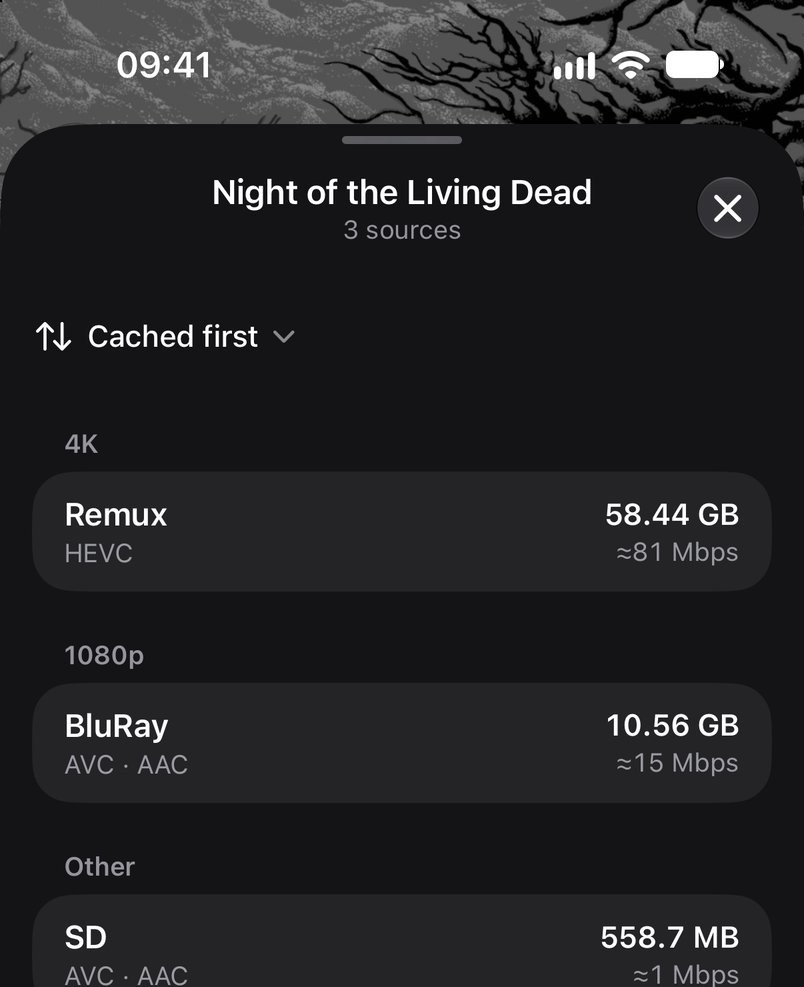
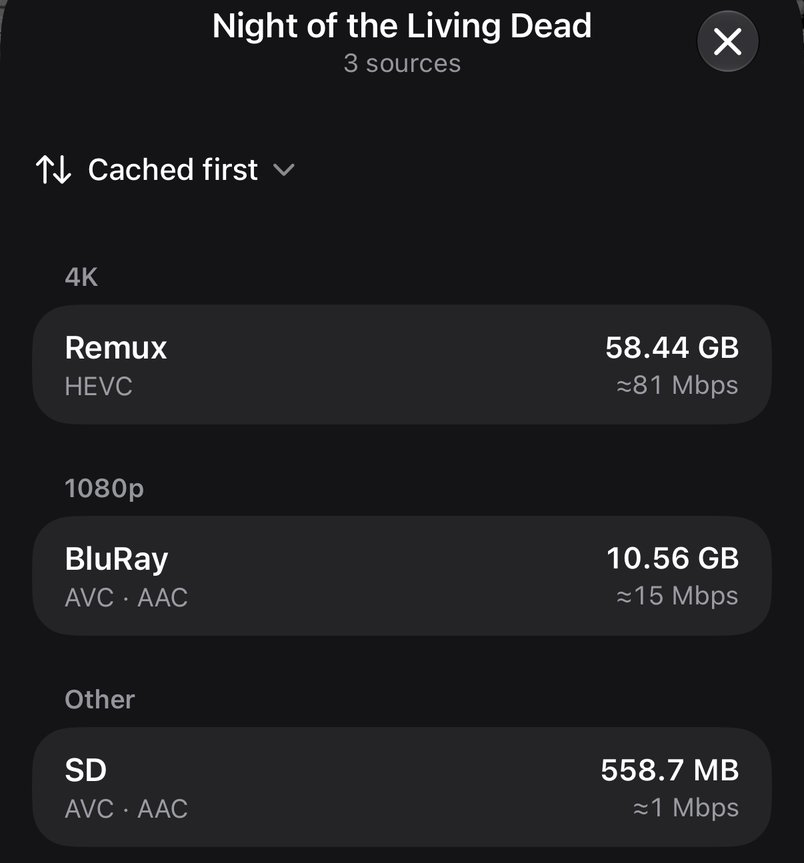
Add an Impressum, privacy policy and copyright notice to the project page
loge.tjh.li gets a German legal page (Impressum under § 5 DDG and
§ 18 MStV, copyright and trademarks, responsibility for addons, and a
privacy policy covering Cloudflare hosting and what the app contacts),
linked from the footer with a copyright line. Screenshots now show only
the public-domain Night of the Living Dead: the Apple TV Home capture with
studio artwork is replaced by the Apple TV player, and the sources sheet
is cropped below the title artwork.

diff --git a/web/impressum.html b/web/impressum.html
@@ -1,0 +1,118 @@
+<!doctype html>
+<html lang="de">
+  <head>
+    <meta charset="utf-8">
+    <meta name="viewport" content="width=device-width, initial-scale=1">
+    <title>Impressum und Datenschutz · loge</title>
+    <meta name="description" content="Impressum, Urheberrecht und Datenschutzerklärung für loge.tjh.li und die App loge.">
+    <link rel="canonical" href="https://loge.tjh.li/impressum">
+    <link rel="icon" href="/icon.png" type="image/png">
+    <link rel="preload" href="/fonts/mona-sans.woff2" as="font" type="font/woff2" crossorigin>
+    <link rel="stylesheet" href="/style.css">
+    <meta name="theme-color" content="#f2f4f9" media="(prefers-color-scheme: light)">
+    <meta name="theme-color" content="#0a0d13" media="(prefers-color-scheme: dark)">
+  </head>
+
+  <body>
+    <a class="skip" href="#main">Zum Inhalt</a>
+
+    <main id="main" class="page legal">
+      <header class="legal-head">
+        <a class="label link" href="/">← loge</a>
+        <h1>Impressum und Datenschutz</h1>
+        <p class="label">Legal notice and privacy policy · Stand: 10. November 2026</p>
+      </header>
+
+      <section id="impressum" class="pane" aria-labelledby="impressum-heading">
+        <h2 id="impressum-heading">Impressum</h2>
+        <p class="label">Angaben gemäß § 5 DDG und § 18 Abs. 1 MStV</p>
+        <address>
+          Tim Jonas Holzwarth<br>
+          ADDRESS-MISSING<br>
+          Deutschland
+        </address>
+        <dl class="specs">
+          <div><dt>E-Mail</dt><dd><a class="link" href="mailto:hi@tjh.li">hi@tjh.li</a></dd></div>
+        </dl>
+        <p>loge ist ein privates, nicht kommerzielles Open-Source-Projekt. Es gibt keine
+          Werbung, keine Bezahlung und kein Konto.</p>
+      </section>
+
+      <section id="urheberrecht" class="pane" aria-labelledby="copyright-heading">
+        <h2 id="copyright-heading">Urheberrecht und Marken</h2>
+        <dl class="specs">
+          <div><dt>Diese Seite</dt><dd>© 2026 Tim Jonas Holzwarth. Texte, Gestaltung und Screenshots
+            der App dürfen nicht ohne Zustimmung weiterverwendet werden.</dd></div>
+          <div><dt>Die App</dt><dd>© 2026 Tim Jonas Holzwarth. Der Quellcode ist freie Software unter der
+            <a class="link" href="https://github.com/timhlzwrt/loge/blob/main/LICENSE">GNU General Public License v3.0</a>.</dd></div>
+          <div><dt>Bestandteile</dt><dd><a class="link" href="https://mpv.io">mpv</a> und
+            <a class="link" href="https://ffmpeg.org">FFmpeg</a> über
+            <a class="link" href="https://github.com/mpvkit/MPVKit">MPVKit</a> (LGPL). Schriften Mona Sans
+            und IBM Plex Mono (SIL Open Font License 1.1).</dd></div>
+          <div><dt>Screenshots</dt><dd>Der gezeigte Film <em>Night of the Living Dead</em> (1968) ist
+            gemeinfrei; die Dateien stammen aus dem Internet Archive.</dd></div>
+          <div><dt>Marken</dt><dd>Apple, iPhone, iPad, Apple TV und Mac sind Marken der Apple Inc.
+            Stremio, Trakt und TMDB sind Marken ihrer jeweiligen Inhaber. loge ist ein unabhängiges
+            Projekt und weder mit ihnen verbunden noch von ihnen unterstützt. Diese App verwendet die
+            TMDB-API, ist aber nicht von TMDB empfohlen oder zertifiziert.</dd></div>
+        </dl>
+      </section>
+
+      <section id="inhalte" class="pane" aria-labelledby="content-heading">
+        <h2 id="content-heading">Inhalte und Addons</h2>
+        <p>loge stellt keine Filme oder Serien bereit, speichert keine und empfiehlt keine
+          Addons. Die App zeigt nur, was Addons liefern, die jede Person selbst hinzufügt. Wer
+          ein Addon nutzt, ist selbst dafür verantwortlich, dass das rechtmäßig ist.</p>
+        <p>Für Inhalte externer Seiten, auf die diese Seite verlinkt, sind deren Betreiber
+          verantwortlich. Werden mir Rechtsverstöße bekannt, entferne ich betroffene Links
+          umgehend.</p>
+      </section>
+
+      <section id="datenschutz" class="pane" aria-labelledby="privacy-heading">
+        <h2 id="privacy-heading">Datenschutzerklärung</h2>
+
+        <h3>Verantwortlicher</h3>
+        <p>Tim Jonas Holzwarth, Anschrift wie im Impressum,
+          <a class="link" href="mailto:hi@tjh.li">hi@tjh.li</a>.</p>
+
+        <h3>Diese Website</h3>
+        <dl class="specs">
+          <div><dt>Cookies</dt><dd>Keine</dd></div>
+          <div><dt>Analyse</dt><dd>Keine</dd></div>
+          <div><dt>Schriften, Bilder</dt><dd>Vom selben Server, keine Anfragen an Dritte</dd></div>
+        </dl>
+        <p>Die Seite wird über Cloudflare Pages ausgeliefert (Cloudflare, Inc., 101 Townsend St,
+          San Francisco, CA 94107, USA). Bei jedem Aufruf verarbeitet Cloudflare technisch nötige
+          Daten: IP-Adresse, Zeitpunkt, aufgerufene Adresse und Browserangaben. Das dient der
+          Auslieferung und dem Schutz der Seite vor Angriffen; Rechtsgrundlage ist
+          Art. 6 Abs. 1 lit. f DSGVO. Cloudflare ist unter dem EU-US Data Privacy Framework
+          zertifiziert (Art. 45 DSGVO). Ich werte keine Zugriffsdaten aus und speichere keine
+          Server-Logs.</p>
+        <p>Downloads und Quellcode liegen auf GitHub (GitHub, Inc., USA). Wer einen Link dorthin
+          öffnet, ruft GitHub direkt auf; dann gilt die
+          <a class="link" href="https://docs.github.com/de/site-policy/privacy-policies/github-general-privacy-statement">Datenschutzerklärung von GitHub</a>.</p>
+
+        <h3>Die App</h3>
+        <p>Die App sendet keine Daten an mich und hat keinen eigenen Server. Sie verbindet sich
+          direkt vom Gerät aus mit den Diensten, die sie für ihre Funktionen braucht oder die du
+          selbst einrichtest; dabei sehen diese Dienste deine IP-Adresse und die Anfrage:</p>
+        <dl class="specs">
+          <div><dt>Immer</dt><dd>Cinemeta (Kataloge, Titelinformationen), Wikidata und Wikimedia
+            (Festivals, Bilder), TheIntroDB (Zeiten zum Überspringen von Vorspann und Abspann)</dd></div>
+          <div><dt>Auf dem Mac</dt><dd>tjh.li auf GitHub Pages, um nach Updates zu suchen</dd></div>
+          <div><dt>Wenn du sie einrichtest</dt><dd>Deine Addons, TMDB, Trakt und ein eigener
+            Sync-Server</dd></div>
+        </dl>
+        <p>Verlauf, Listen und Einstellungen bleiben auf deinem Gerät, solange du keine
+          Synchronisierung einrichtest.</p>
+
+        <h3>Deine Rechte</h3>
+        <p>Du hast das Recht auf Auskunft, Berichtigung, Löschung und Einschränkung der
+          Verarbeitung, auf Datenübertragbarkeit und auf Widerspruch (Art. 15–21 DSGVO). Schreib
+          dafür an <a class="link" href="mailto:hi@tjh.li">hi@tjh.li</a>. Außerdem kannst du dich
+          bei einer Datenschutz-Aufsichtsbehörde beschweren, etwa beim
+          <a class="link" href="https://www.baden-wuerttemberg.datenschutz.de">Landesbeauftragten für den Datenschutz Baden-Württemberg</a>.</p>
+      </section>
+    </main>
+  </body>
+</html>

diff --git a/web/index.html b/web/index.html
@@ -14,7 +14,7 @@
     <meta property="og:title" content="loge">
     <meta property="og:description" content="A Stremio addon client for iPhone, iPad, Apple TV and Mac. Browse films and series, choose your source, play with mpv.">
     <meta property="og:url" content="https://loge.tjh.li/">
-    <meta property="og:image" content="https://loge.tjh.li/images/tv-home.jpg">
+    <meta property="og:image" content="https://loge.tjh.li/images/iphone-player.jpg">
     <meta name="twitter:card" content="summary_large_image">
     <meta name="theme-color" content="#f2f4f9" media="(prefers-color-scheme: light)">
     <meta name="theme-color" content="#0a0d13" media="(prefers-color-scheme: dark)">
@@ -43,9 +43,9 @@
 
       <div class="grid">
         <figure class="shot shot-tv">
-          <img src="/images/tv-home.jpg" width="2400" height="1350" fetchpriority="high"
-            alt="loge on Apple TV: Hocus Pocus fills the screen above a focused row of popular movies">
-          <figcaption class="label">Apple TV · Home</figcaption>
+          <img src="/images/iphone-player.jpg" width="1800" height="828" fetchpriority="high"
+            alt="The player on a landscape iPhone, paused on Night of the Living Dead, with skip buttons, timeline and track menus">
+          <figcaption class="label">iPhone · Player</figcaption>
         </figure>
 
         <section id="features" class="pane pane-standouts" aria-labelledby="standouts-heading">
@@ -87,7 +87,7 @@
         </section>
 
         <figure class="shot shot-phone">
-          <img src="/images/iphone-sources.jpg" width="640" height="786" loading="lazy" decoding="async"
+          <img src="/images/iphone-sources.jpg" width="640" height="687" loading="lazy" decoding="async"
             alt="Sources sheet for Night of the Living Dead: a 4K HEVC remux, a 1080p BluRay and an SD file, each with size and bitrate">
           <figcaption class="label">iPhone · Sources</figcaption>
         </figure>
@@ -99,9 +99,9 @@
         </p>
 
         <figure class="shot shot-player">
-          <img src="/images/iphone-player.jpg" width="1800" height="828" loading="lazy" decoding="async"
-            alt="The player on a landscape iPhone, paused on Night of the Living Dead, with skip buttons, timeline and track menus">
-          <figcaption class="label">iPhone · Player</figcaption>
+          <img src="/images/tv-player.jpg" width="2400" height="1350" loading="lazy" decoding="async"
+            alt="loge on Apple TV, paused on Night of the Living Dead with the title and timeline">
+          <figcaption class="label">Apple TV · Player</figcaption>
         </figure>
 
         <section class="pane pane-more" aria-labelledby="more-heading">
@@ -198,11 +198,13 @@
         </div>
         <p>
           An independent project, not an official Stremio application. Uses the TMDB API without
-          being endorsed or certified by TMDB. Artwork in the screenshots belongs to its owners;
-          the film playing is the public-domain <em>Night of the Living Dead</em> (1968).
+          being endorsed or certified by TMDB. The film in the screenshots is the public-domain
+          <em>Night of the Living Dead</em> (1968).
         </p>
         <p class="footer-by">
-          Made by <a class="link" href="https://tjh.li">Tim Holzwarth</a> ·
+          © 2026 <a class="link" href="https://tjh.li">Tim Jonas Holzwarth</a> ·
+          <a class="link" href="/impressum">Impressum</a> ·
+          <a class="link" href="/impressum#datenschutz">Datenschutz</a> ·
           <a class="link" href="https://github.com/timhlzwrt/loge/issues/new/choose">Report a problem</a>
         </p>
       </footer>

diff --git a/web/style.css b/web/style.css
@@ -505,6 +505,51 @@ code {
   border-radius: 2rem;
 }
 
+/* --------------------------------------------------------------- legal */
+
+.legal {
+  max-width: 52rem;
+  padding-top: 4rem;
+  padding-bottom: 4rem;
+}
+.legal-head h1 {
+  margin: 1.5rem 0 1rem;
+  font-size: clamp(2.25rem, 8vw, 3.5rem);
+  font-weight: 800;
+  font-stretch: 125%;
+  line-height: 0.95;
+  letter-spacing: -0.035em;
+}
+.legal-head {
+  margin-bottom: 3rem;
+}
+.legal .pane {
+  margin-bottom: 2rem;
+}
+.legal .pane > .label {
+  margin: -0.75rem 0 1.25rem;
+}
+.legal h3 {
+  margin: 2rem 0 0.75rem;
+  font-size: 1.125rem;
+  font-weight: 600;
+  font-stretch: 115%;
+}
+.legal p {
+  margin: 0 0 1rem;
+  max-width: 62ch;
+  line-height: 1.6;
+}
+.legal address {
+  margin: 0 0 1.5rem;
+  font-style: normal;
+  font-size: 1.0625rem;
+  line-height: 1.6;
+}
+.legal .specs {
+  margin-bottom: 1.25rem;
+}
+
 /* -------------------------------------------------------------- footer */
 
 .footer {

diff --git a/docs/screenshots/README.md b/docs/screenshots/README.md
@@ -24,7 +24,7 @@ captured the same day on the same simulator. They show *Night of the Living Dead
 (1968), which is in the public domain, played from the Internet Archive's own
 copies (`notld-4k-uhd-remux`, `night-of-the-living-dead_1968`) through a local
 throwaway addon that listed only those three files. The sources sheet is cropped to
-its top.
+its list, leaving out the title artwork behind it.
 
 ![Interstellar details with rating, playback and library actions](iphone-details.png)
 
@@ -60,6 +60,13 @@ side on a charcoal background with platform labels. Screens are only resized,
 not redrawn. No artificial device frames, playback sources or credentials were added.
 
 ## Apple TV
+
+![Player paused on Night of the Living Dead](tv-player.jpg)
+
+`tv-player.jpg` was captured on **10 November 2026** on the same Apple TV simulator,
+playing the Internet Archive's SD copy of *Night of the Living Dead* (1968). The
+project page uses it instead of the Home captures below, which show copyrighted
+artwork.
 
 ![Home with a focused poster in Popular Movies](tv-home.jpg)
 ![Home opening on Continue Watching](tv-continue.jpg)
